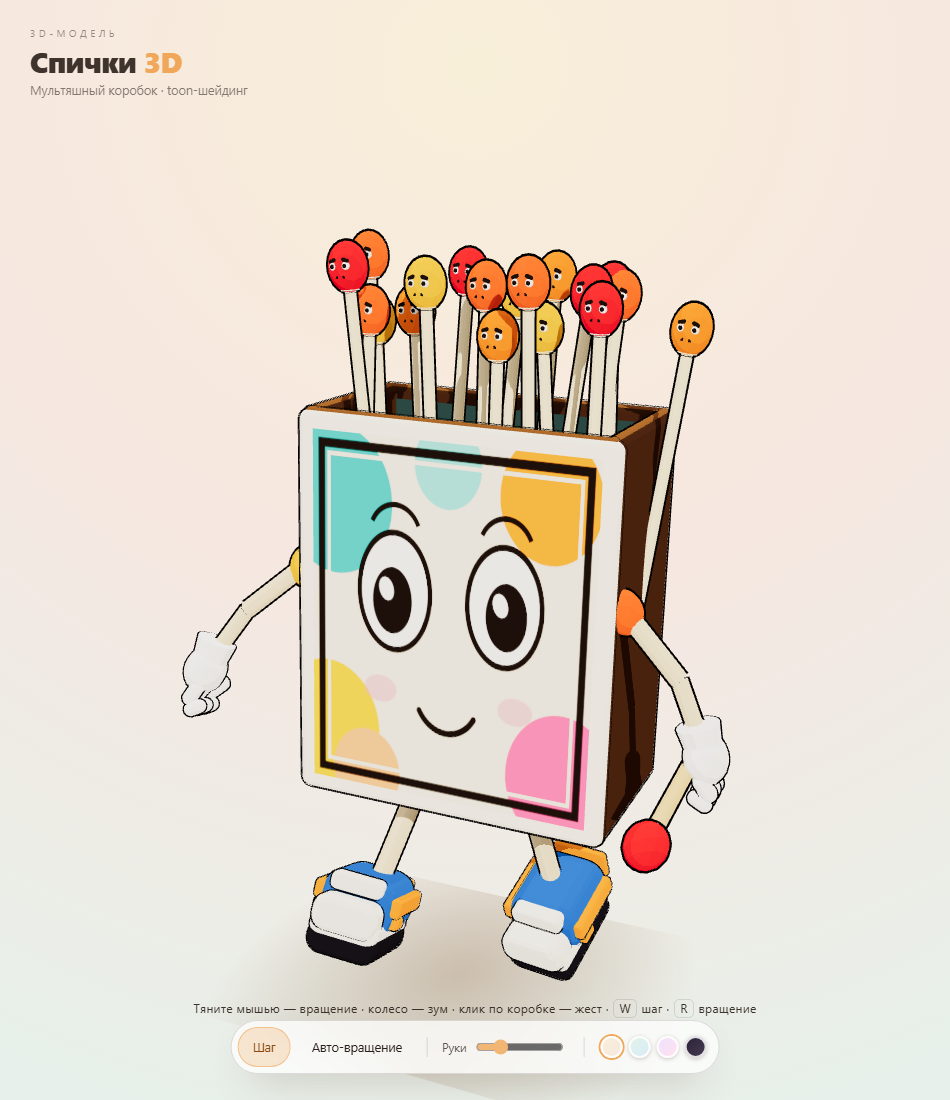
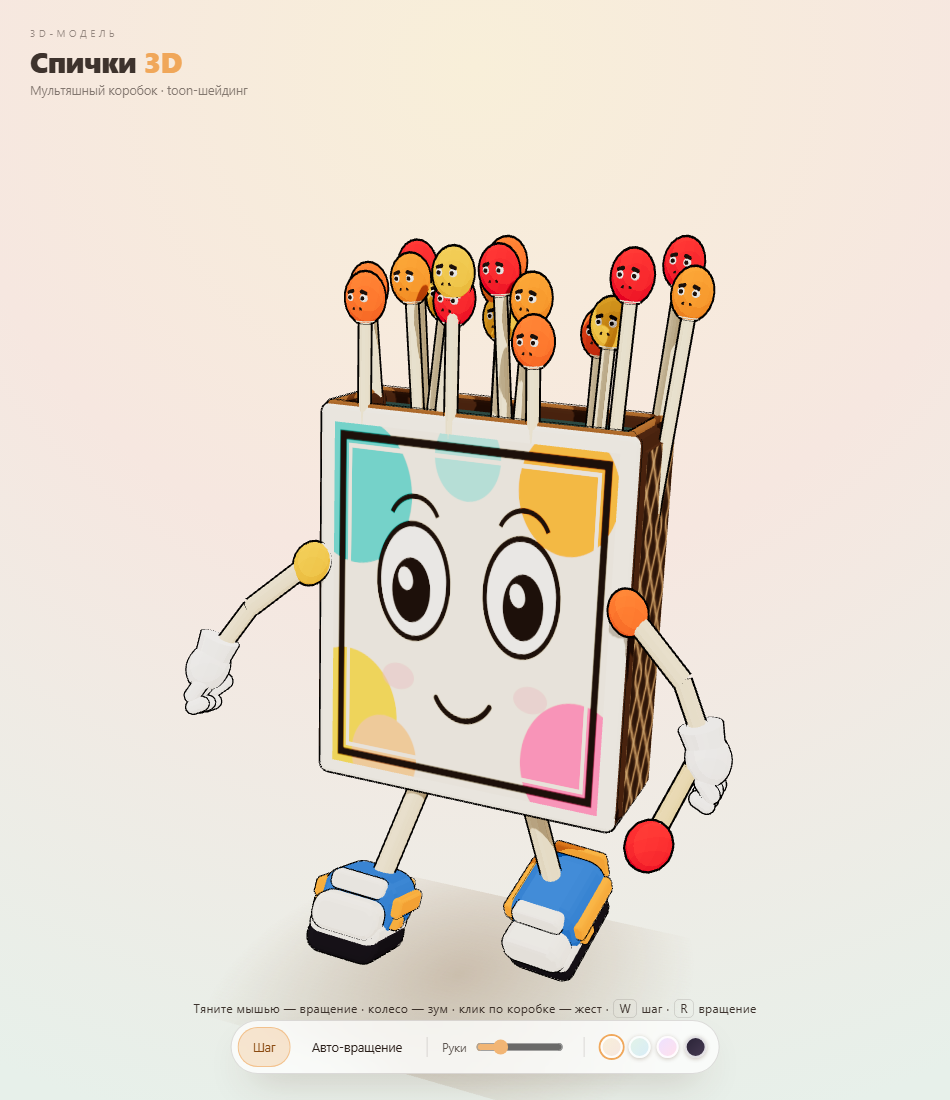
style(matchbox): thinner box (depth 0.54 -> 0.34), side panels rebuilt as textured plates with readable diamond mesh

Changed region(s): [[0.1832, 0.1855, 0.7632, 0.8964], [0.7632, 0.68, 0.7937, 0.7109], [0.5189, 0.8036, 0.5495, 0.8345]]

diff --git a/dist/matchbox.html b/dist/matchbox.html
@@ -252,20 +252,14 @@ function labelTexture(){
 /* боковая тёрка */
 function strikerTexture(){
   const {c, g} = cv(256, 256);
-  g.fillStyle = '#3b2415';
+  g.fillStyle = '#3a2314';
   g.fillRect(0, 0, 256, 256);
-  // сетка
-  g.strokeStyle = 'rgba(120,80,45,.55)';
-  g.lineWidth = 1;
-  for (let i = 0; i <= 256; i += 8){
-    g.beginPath(); g.moveTo(i, 0); g.lineTo(i, 256); g.stroke();
-    g.beginPath(); g.moveTo(0, i); g.lineTo(256, i); g.stroke();
-  }
-  // диагональная «наждачка»
-  g.strokeStyle = 'rgba(26,15,8,.45)';
-  g.lineWidth = 2;
-  for (let i = -256; i <= 256; i += 16){
+  // косая сетка (как наждак тёрки)
+  g.strokeStyle = 'rgba(220,170,115,.95)';
+  g.lineWidth = 7;
+  for (let i = -256; i <= 512; i += 96){
     g.beginPath(); g.moveTo(i, 0); g.lineTo(i + 256, 256); g.stroke();
+    g.beginPath(); g.moveTo(i, 256); g.lineTo(i + 256, 0); g.stroke();
   }
   for (let i = 0; i < 2200; i++){
     g.fillStyle = 'rgba(' + (150 + Math.random() * 70 | 0) + ',' + (110 + Math.random() * 50 | 0) + ',' + (80 + Math.random() * 40 | 0) + ',' + (.04 + Math.random() * .16) + ')';
@@ -274,7 +268,7 @@ function strikerTexture(){
   const t = new THREE.CanvasTexture(c);
   t.colorSpace = THREE.SRGBColorSpace;
   t.wrapS = t.wrapT = THREE.RepeatWrapping;
-  t.repeat.set(2.2, 3.4);
+  t.repeat.set(1.0, 2.6);   // крупные ромбы, читаемые на узком боку
   return t;
 }
 
@@ -285,7 +279,7 @@ const M = {
   boxEdge: toon(0x8d5c2e),
   inner:  toon(0x16302f),
   label:  toon(0xffffff, {map:labelTexture()}),
-  striker: toon(0xffffff, {map:strikerTexture()}),
+  striker: new THREE.MeshBasicMaterial({map:strikerTexture()}),
   stem:   toon(0xf7e6bd),
   headA:  toon(0xff5a1f),
   headB:  toon(0xe81d2c),
@@ -309,7 +303,7 @@ const hero = new THREE.Group();
 hero.position.y = .06;
 scene.add(hero);
 
-const BW = .92, BH = 1.12, BD = .54, WT = .035;
+const BW = .92, BH = 1.12, BD = .34, WT = .032;
 const boxY = 1.10;                       // центр коробка
 const topY = boxY + BH / 2, botY = boxY - BH / 2;
 
@@ -338,15 +332,17 @@ label.position.set(0, boxY, BD / 2 + .003);
 bodyBox.add(label);
 
 // тёрка на правой стенке
-const striker = new THREE.Mesh(new THREE.PlaneGeometry(BD - .07, BH - .07), M.striker);
-striker.rotation.y = Math.PI / 2;
-striker.position.set(BW / 2 + .006, boxY, 0);
-bodyBox.add(striker);
-
-const strikerL = new THREE.Mesh(new THREE.PlaneGeometry(BD - .07, BH - .07), M.striker);
-strikerL.rotation.y = -Math.PI / 2;
-strikerL.position.set(-BW / 2 - .006, boxY, 0);
-bodyBox.add(strikerL);
+function sidePlate(sign){
+  const mats = [M.boxSide, M.boxSide, M.boxSide, M.boxSide, M.boxSide, M.boxSide];
+  mats[sign > 0 ? 0 : 1] = M.striker;          // наружу — тёрка в сетку
+  const m = new THREE.Mesh(new THREE.BoxGeometry(.010, BH - .06, BD - .06), mats);
+  m.position.set(sign * (BW / 2 + .025), boxY, 0);
+  m.castShadow = true; m.receiveShadow = true;
+  bodyBox.add(m);
+  return m;
+}
+sidePlate(1);
+sidePlate(-1);
 
 // тёмная кромка-отбортовка по верху
 [[0, BD / 2 - WT / 2, BW - .02, WT], [0, -BD / 2 + WT / 2, BW - .02, WT]].forEach(function(v){

diff --git a/src/matchbox/index.html b/src/matchbox/index.html
@@ -245,20 +245,14 @@ function labelTexture(){
 /* боковая тёрка */
 function strikerTexture(){
   const {c, g} = cv(256, 256);
-  g.fillStyle = '#3b2415';
+  g.fillStyle = '#3a2314';
   g.fillRect(0, 0, 256, 256);
-  // сетка
-  g.strokeStyle = 'rgba(120,80,45,.55)';
-  g.lineWidth = 1;
-  for (let i = 0; i <= 256; i += 8){
-    g.beginPath(); g.moveTo(i, 0); g.lineTo(i, 256); g.stroke();
-    g.beginPath(); g.moveTo(0, i); g.lineTo(256, i); g.stroke();
-  }
-  // диагональная «наждачка»
-  g.strokeStyle = 'rgba(26,15,8,.45)';
-  g.lineWidth = 2;
-  for (let i = -256; i <= 256; i += 16){
+  // косая сетка (как наждак тёрки)
+  g.strokeStyle = 'rgba(220,170,115,.95)';
+  g.lineWidth = 7;
+  for (let i = -256; i <= 512; i += 96){
     g.beginPath(); g.moveTo(i, 0); g.lineTo(i + 256, 256); g.stroke();
+    g.beginPath(); g.moveTo(i, 256); g.lineTo(i + 256, 0); g.stroke();
   }
   for (let i = 0; i < 2200; i++){
     g.fillStyle = 'rgba(' + (150 + Math.random() * 70 | 0) + ',' + (110 + Math.random() * 50 | 0) + ',' + (80 + Math.random() * 40 | 0) + ',' + (.04 + Math.random() * .16) + ')';
@@ -267,7 +261,7 @@ function strikerTexture(){
   const t = new THREE.CanvasTexture(c);
   t.colorSpace = THREE.SRGBColorSpace;
   t.wrapS = t.wrapT = THREE.RepeatWrapping;
-  t.repeat.set(2.2, 3.4);
+  t.repeat.set(1.0, 2.6);   // крупные ромбы, читаемые на узком боку
   return t;
 }
 
@@ -278,7 +272,7 @@ const M = {
   boxEdge: toon(0x8d5c2e),
   inner:  toon(0x16302f),
   label:  toon(0xffffff, {map:labelTexture()}),
-  striker: toon(0xffffff, {map:strikerTexture()}),
+  striker: new THREE.MeshBasicMaterial({map:strikerTexture()}),
   stem:   toon(0xf7e6bd),
   headA:  toon(0xff5a1f),
   headB:  toon(0xe81d2c),
@@ -302,7 +296,7 @@ const hero = new THREE.Group();
 hero.position.y = .06;
 scene.add(hero);
 
-const BW = .92, BH = 1.12, BD = .54, WT = .035;
+const BW = .92, BH = 1.12, BD = .34, WT = .032;
 const boxY = 1.10;                       // центр коробка
 const topY = boxY + BH / 2, botY = boxY - BH / 2;
 
@@ -331,15 +325,17 @@ label.position.set(0, boxY, BD / 2 + .003);
 bodyBox.add(label);
 
 // тёрка на правой стенке
-const striker = new THREE.Mesh(new THREE.PlaneGeometry(BD - .07, BH - .07), M.striker);
-striker.rotation.y = Math.PI / 2;
-striker.position.set(BW / 2 + .006, boxY, 0);
-bodyBox.add(striker);
-
-const strikerL = new THREE.Mesh(new THREE.PlaneGeometry(BD - .07, BH - .07), M.striker);
-strikerL.rotation.y = -Math.PI / 2;
-strikerL.position.set(-BW / 2 - .006, boxY, 0);
-bodyBox.add(strikerL);
+function sidePlate(sign){
+  const mats = [M.boxSide, M.boxSide, M.boxSide, M.boxSide, M.boxSide, M.boxSide];
+  mats[sign > 0 ? 0 : 1] = M.striker;          // наружу — тёрка в сетку
+  const m = new THREE.Mesh(new THREE.BoxGeometry(.010, BH - .06, BD - .06), mats);
+  m.position.set(sign * (BW / 2 + .025), boxY, 0);
+  m.castShadow = true; m.receiveShadow = true;
+  bodyBox.add(m);
+  return m;
+}
+sidePlate(1);
+sidePlate(-1);
 
 // тёмная кромка-отбортовка по верху
 [[0, BD / 2 - WT / 2, BW - .02, WT], [0, -BD / 2 + WT / 2, BW - .02, WT]].forEach(function(v){
